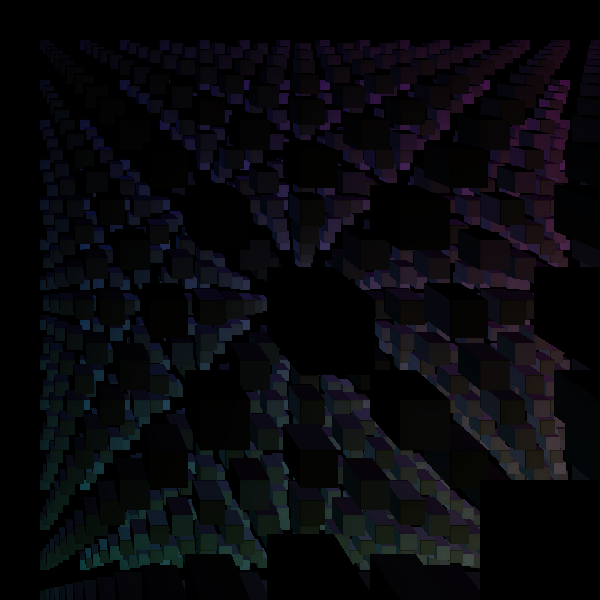
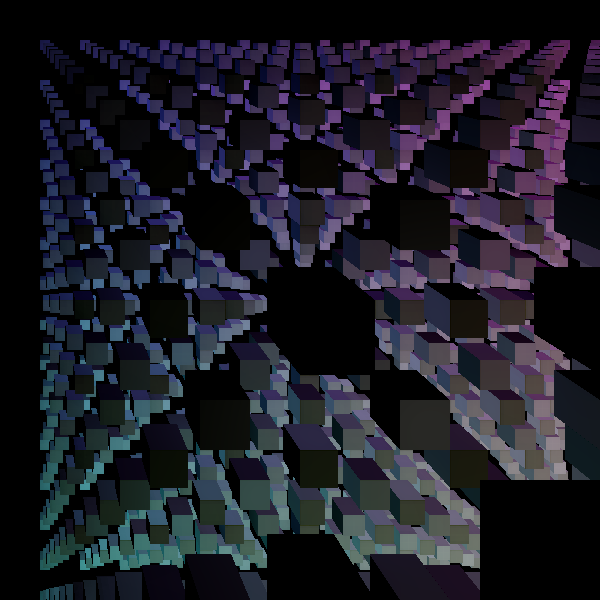
Voxel render: Reflections

diff --git a/2023/rust-voxelrender/src/main.rs b/2023/rust-voxelrender/src/main.rs
@@ -27,6 +27,15 @@ impl Vec3 {
         Vec3 { x, y, z }
     }
 
+    fn mixf(&self, other: &Vec3, a: f64) -> Vec3 {
+        let b = (1. - a);
+        Vec3::new(
+            self.x * b + other.x * a,
+            self.y * b + other.y * a,
+            self.z * b + other.z * a,
+        )
+    }
+
     fn add(&self, v: &Vec3) -> Vec3 {
         Vec3 {
             x: self.x + v.x,
@@ -613,34 +622,39 @@ fn emission_strength_from_u8(u: u8) -> f64 {
     (2_f64).powf(u as f64 / 16.)
 }
 
-fn render(
-    buf: &mut [Color],
-    w: u32,
-    h: u32,
-    workers: u32,
-    worker: u32,
+fn direct_color(
+    origin: &Vec3,
+    dir: &Vec3,
     tree: &MatTree,
     ltree: &EmissionTree,
     lights: &LightingTree,
-) {
-    let camera = Vec3::new(CAMERA_SHAKE, CAMERA_SHAKE, CAMERA_SHAKE);
-    let unit = w / workers;
-    let start = unit * worker;
-    let stop = (worker + 1) * unit;
-    for y in ((start)..(stop)).rev() {
-        for x in (0..h).rev() {
-            let px = (w * (y - start) + x) as usize;
-            let dir =
-                Vec3::new(x as f64 + CAMERA_SHAKE, y as f64 + CAMERA_SHAKE, 600.).normalized();
-            let (voxel, solidpos, _) = cast_to_hit(camera, &dir, tree);
-            if let Some(v) = voxel {
-                let voxpos = solidpos.clone();
-                let normal = solidpos.prob_voxel_norm(&dir);
-                let albedo = color_to_f(&v.color);
-                let direct_light_pos = solidpos.add(&dir.mulf(-SOLID_POS_PUSH));
-                let mut currentc = Vec3::new(0., 0., 0.);
-                let color = &mut currentc;
-                lights.query(&direct_light_pos, |lightvoxel| {
+    bounces: usize,
+) -> Vec3 {
+    let px_color = Vec3::new(0., 0., 0.);
+    if bounces == 0 {
+        return px_color;
+    }
+    let (voxel, solidpos, _) = cast_to_hit(*origin, &dir, tree);
+
+    // Render light first because it is faster
+    let solid_dist = origin.sub(&solidpos).len();
+    let lpos = origin.clone();
+    if let (Some(v), lpos, _) = cast_to_hit(lpos, &dir, ltree) {
+        if origin.sub(&lpos).len() < solid_dist {
+            let light_strength = emission_strength_from_u8(v.emission);
+            let adjusted_color = color_to_f(&v.color).mulf(light_strength);
+            return adjusted_color;
+        }
+    }
+
+    if let Some(v) = voxel {
+        let voxpos = solidpos.clone();
+        let normal = solidpos.prob_voxel_norm(&dir);
+        let albedo = color_to_f(&v.color);
+        let direct_light_pos = solidpos.add(&dir.mulf(-SOLID_POS_PUSH));
+        let mut currentc = Vec3::new(0., 0., 0.);
+        let color = &mut currentc;
+        lights.query(&direct_light_pos, |lightvoxel| {
                     let dest = lightvoxel.voxel_center();
                     let vec_to_dest = dest.sub(&direct_light_pos);
                     let dist_to_dest = vec_to_dest.len();
@@ -666,35 +680,77 @@ fn render(
                         *color = color.add(&color_to_f(&emission_voxel.color).mul(&mixed_color));
                     }
                 });
-                buf[px] = f_to_color(color);
-            }
-            let solid_dist = camera.sub(&solidpos).len();
-            let lpos = camera.clone();
-            if let (Some(v), lpos, _) = cast_to_hit(lpos, &dir, ltree) {
-                if camera.sub(&lpos).len() < solid_dist {
-                    buf[px] = f_to_color(&color_to_f(&v.color).mulf(emission_strength_from_u8(v.emission)));
-                }
-            }
+        if v.roughness < 255 {
+            // r = d - 2(d \dot n)n
+            let reflection = dir.sub(&normal.mulf(&dir.dot(&normal) * 2.));
+            let additional_color = direct_color(
+                &direct_light_pos,
+                &reflection,
+                tree,
+                ltree,
+                lights,
+                bounces - 1,
+            );
+            let reflected_back = 1. - (1. / (2_f64).powf(2. - v.roughness as f64 / 128.));
+            return color.mixf(&additional_color, reflected_back);
+        }
+        return *color;
+    }
+    px_color
+}
+
+fn render(
+    buf: &mut [Color],
+    w: u32,
+    h: u32,
+    workers: u32,
+    worker: u32,
+    tree: &MatTree,
+    ltree: &EmissionTree,
+    lights: &LightingTree,
+) {
+    let camera = Vec3::new(CAMERA_SHAKE, CAMERA_SHAKE, CAMERA_SHAKE);
+    let unit = w / workers;
+    let start = unit * worker;
+    let stop = (worker + 1) * unit;
+    for y in ((start)..(stop)).rev() {
+        for x in (0..h).rev() {
+            let px = (w * (y - start) + x) as usize;
+            let dir =
+                Vec3::new(x as f64 + CAMERA_SHAKE, y as f64 + CAMERA_SHAKE, 600.).normalized();
+            let direct_color = direct_color(&camera, &dir, tree, ltree, lights, 6);
+            buf[px] = f_to_color(&direct_color);
         }
     }
 }
 
 fn image1(solids: &mut MatTree, emissions: &mut EmissionTree, light: &mut LightingTree) {
-    solids.insert(Point::new(5, 5, 10), RoughVoxel::new([200, 200, 200], 255));
-    solids.insert(Point::new(5, 6, 10), RoughVoxel::new([200, 200, 200], 100));
+    for x in 3..=6 {
+        for y in 3..=6 {
+            solids.insert(Point::new(x, y, 13), RoughVoxel::new([200, 200, 200], 50));
+        }
+    }
+    emissions.insert(
+        Point::new(8, 6, 13),
+        EmissionVoxel::new([100, 200, 255], 30),
+    );
+    light.insert(Point::new(8, 6, 13), 30);
+
+    solids.insert(Point::new(5, 5, 10), RoughVoxel::new([240, 130, 130], 255));
+    solids.insert(Point::new(5, 6, 10), RoughVoxel::new([240, 130, 130], 255));
 
     emissions.insert(Point::new(7, 6, 9), EmissionVoxel::new([100, 200, 100], 30));
     emissions.insert(
-        Point::new(2, 2, 10),
+        Point::new(2, 2, 12),
         EmissionVoxel::new([255, 255, 255], 50),
     );
 
     light.insert(Point::new(7, 6, 9), 30);
-    light.insert(Point::new(2, 2, 10), 50);
+    light.insert(Point::new(2, 2, 12), 50);
 
     for x in 0..30 {
         for z in 5..50 {
-            solids.insert(Point::new(x, 7, z), RoughVoxel::new([255, 255, 255], 255));
+            solids.insert(Point::new(x, 7, z), RoughVoxel::new([255, 255, 255], 230));
         }
     }
 }
